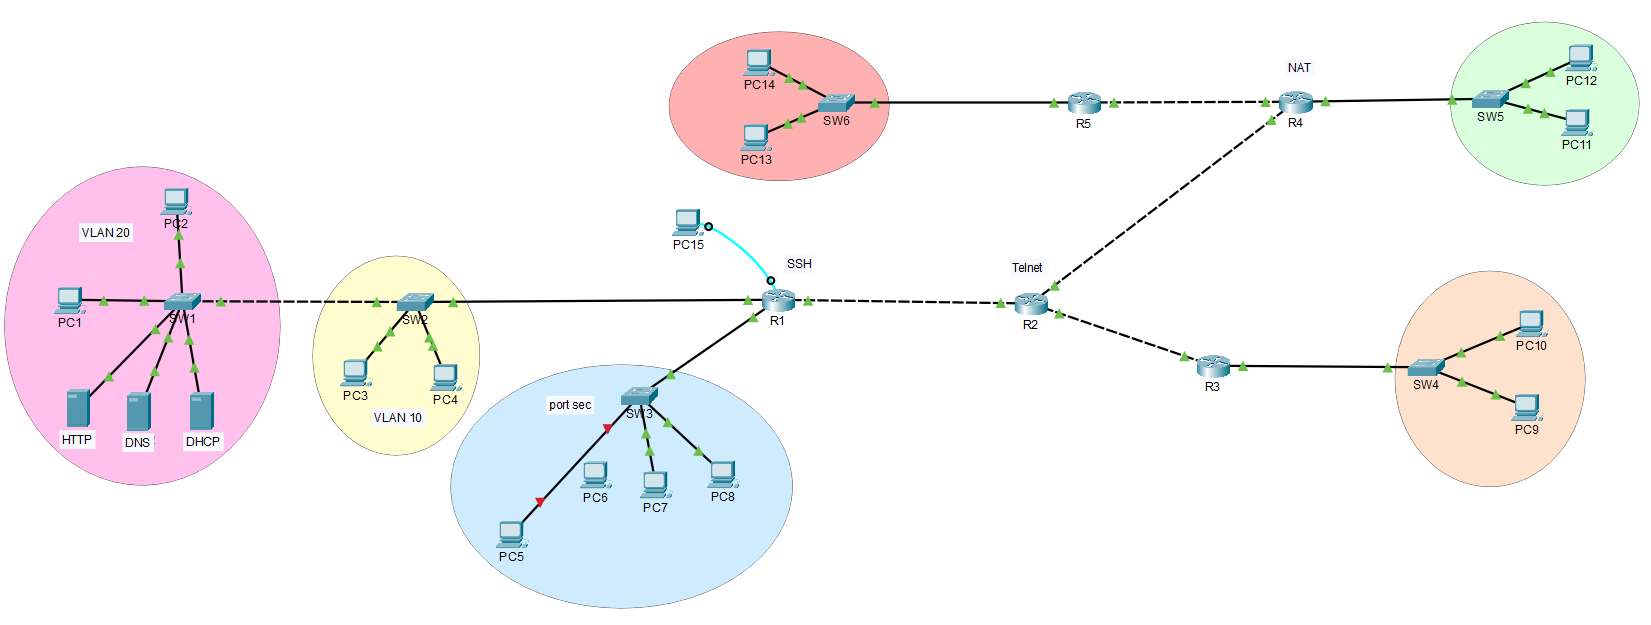
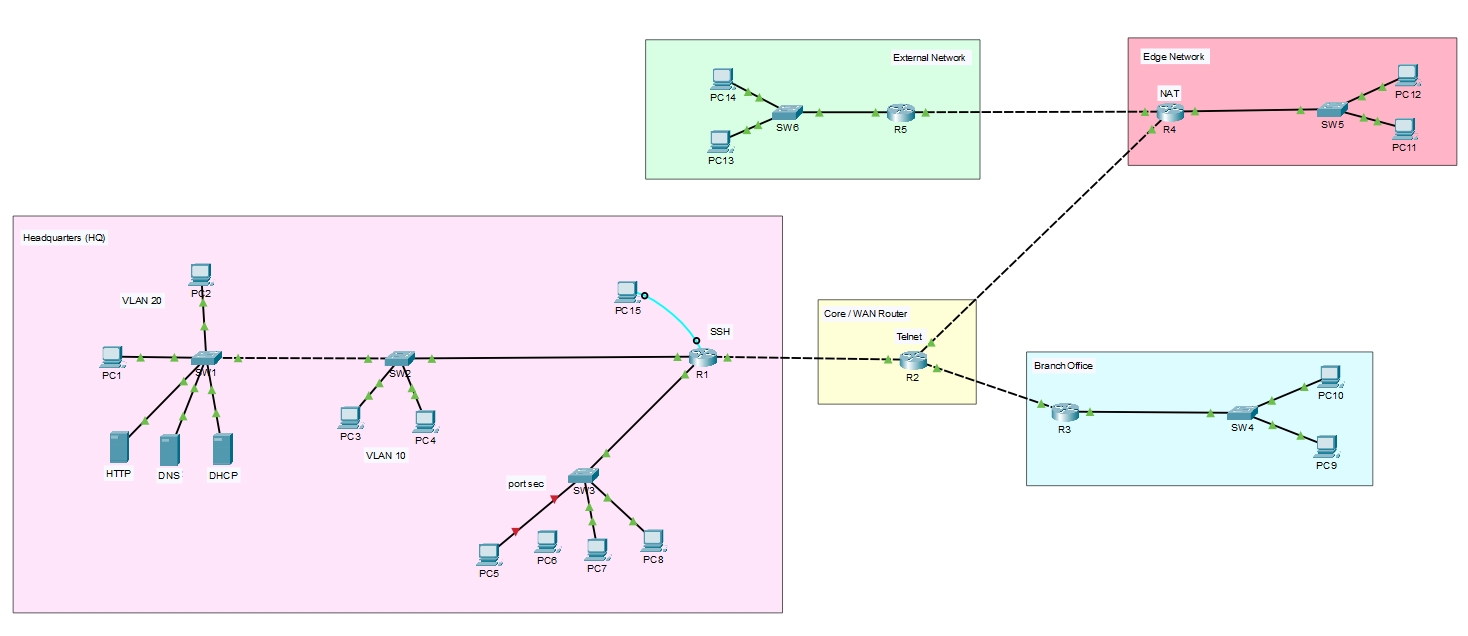
Updated enterprise network topology diagram

diff --git a/README.md b/README.md
@@ -1,10 +1,10 @@
-# Enterprise Network Infrastructure
+# Secure Enterprise Network Infrastructure
 
 ## Overview
 
-This project demonstrates the design and implementation of a secure enterprise network using Cisco Packet Tracer.
+This project demonstrates the design, implementation, and validation of a secure enterprise network using Cisco Packet Tracer.
 
-The network was designed to simulate a real enterprise environment with multiple LANs, routing protocols, network services, remote management, and security features.
+The network simulates a real-world enterprise environment by integrating routing, switching, network services, remote management, and security technologies across multiple interconnected sites.
 
 ---
 
@@ -12,65 +12,48 @@ The network was designed to simulate a real enterprise environment with multiple
 
 ![Network Topology](screenshots/topology.png)
 
---- 
+---
 
 ## Features
 
 - Multi-router enterprise network topology
-- VLAN segmentation (VLAN 10 & VLAN 20)
-- Inter-VLAN Routing
+- VLAN Segmentation
+- Router-on-a-Stick (Inter-VLAN Routing)
 - Static Routing
-- RIP Routing
+- RIPv2 Dynamic Routing
 - Default Route
 - DHCP Server
 - DNS Server
 - HTTP Server
-- Network Address Translation (NAT)
+- Static NAT
 - SSH Remote Management
-- Telnet Remote Access
-- Switch Port Security
-- End-to-End Connectivity Testing
+- Telnet Connectivity Testing
+- Port Security
+- Network Validation & Connectivity Testing
 
 ---
 
-## VLAN Configuration
+## VLANs & Inter-VLAN Routing
 
-The enterprise network was segmented using Virtual LANs (VLANs) to improve security and reduce broadcast traffic.
+The enterprise network was segmented using Virtual LANs (VLANs) to improve network organization, reduce broadcast traffic, and enhance security.
 
 | VLAN | Purpose | Connected Devices |
 |------|---------|-------------------|
 | VLAN 10 | User Network | PC3, PC4 |
 | VLAN 20 | Server Network | HTTP Server, DNS Server, DHCP Server, PC1, PC2 |
 
-A trunk link was configured between SW1 and SW2 to allow VLAN traffic between switches.
-
----
-
-## VLAN & Inter-VLAN Routing
-
-The enterprise network was segmented using VLANs to improve network organization and security.
-
-| VLAN | Purpose |
-|------|---------|
-| VLAN 10 | User Network |
-| VLAN 20 | Server Network |
-
-Inter-VLAN Routing was implemented using the Router-on-a-Stick technique.
-
 Two IEEE 802.1Q trunk links were configured:
 
 - SW1 ↔ SW2
 - SW2 ↔ R1
 
-Router R1 was configured with subinterfaces for VLAN 10 and VLAN 20 to enable communication between VLANs.
+Inter-VLAN communication was implemented using the Router-on-a-Stick technique. Router R1 was configured with dedicated subinterfaces for VLAN 10 and VLAN 20, allowing secure communication between both VLANs.
 
 ---
 
 ## DHCP Configuration
 
-![DHCP Server](screenshots/dhcp-server.png)
-
-A dedicated DHCP server was configured to automatically assign IP addresses to devices in the Server Network.
+A dedicated DHCP server was configured to automatically assign IP addresses to devices within the Server Network.
 
 ### DHCP Settings
 
@@ -83,13 +66,17 @@ A dedicated DHCP server was configured to automatically assign IP addresses to d
 | Start IP Address | 192.168.20.5 |
 | Maximum Users | 251 |
 
-The DHCP service automatically assigns network configuration to client devices, reducing manual configuration and improving network management.
+The DHCP service automatically distributes IP configuration to client devices, reducing manual configuration and simplifying network management.
+
+### DHCP Server
+
+![DHCP Server](screenshots/dhcp-server.png)
 
 ---
 
 ## DNS Configuration
 
-A dedicated DNS server was configured to provide hostname resolution for internal services within the enterprise network.
+A dedicated DNS server was configured to resolve internal hostnames within the enterprise network.
 
 ### DNS Record
 
@@ -97,7 +84,7 @@ A dedicated DNS server was configured to provide hostname resolution for interna
 |----------|-------------|------------|
 | www.cisco | A Record | 192.168.20.4 |
 
-The DNS server allows clients to access the web server using its hostname instead of the IP address.
+The DNS server enables users to access internal services using hostnames instead of IP addresses.
 
 ### DNS Server
 
@@ -109,21 +96,21 @@ The DNS server allows clients to access the web server using its hostname instea
 
 An internal web server was deployed and successfully accessed through DNS hostname resolution.
 
-### Validation
+### Verification
 
-The website was accessed using:
+The website was successfully accessed using:
 
-```
+```text
 http://www.cisco
 ```
 
-This confirms the successful integration of:
+This validates:
 
 - DNS name resolution
-- HTTP service
+- HTTP service availability
 - End-to-end network connectivity
 
-### HTTP Test
+### HTTP Verification
 
 ![HTTP Test](screenshots/http-test.png)
 
@@ -131,26 +118,26 @@ This confirms the successful integration of:
 
 ## SSH Remote Management
 
-Secure Shell (SSH) was configured on **Router R1** to provide secure remote administration.
+Secure Shell (SSH) was configured on Router R1 to provide secure remote administration.
 
 ### Configuration
 
 - Local user authentication
-- RSA (2048-bit) encryption keys
+- 2048-bit RSA key pair
 - SSH enabled on VTY lines
-- Domain name configured: `NETWORK.LOCAL`
+- Domain name configured (NETWORK.LOCAL)
 
 ### Verification
 
-SSH connectivity was successfully verified by establishing a remote session from **R2** to **R1** using:
+SSH connectivity was successfully verified by establishing a secure remote session from Router R2 to Router R1.
 
 ```text
 ssh -l saja 10.10.1.1
 ```
 
-Successful authentication confirmed secure remote management between network devices.
+Successful authentication confirmed secure remote management between enterprise network devices.
 
-### SSH Test
+### SSH Verification
 
 ![SSH Login](screenshots/ssh-login.png)
 
@@ -158,7 +145,7 @@ Successful authentication confirmed secure remote management between network dev
 
 ## Network Address Translation (NAT)
 
-Static Network Address Translation (Static NAT) was implemented to provide address translation between internal and external networks.
+Static Network Address Translation (Static NAT) was implemented to provide communication between internal and external networks.
 
 ### NAT Translation
 
@@ -168,7 +155,7 @@ Static Network Address Translation (Static NAT) was implemented to provide addre
 
 ### Verification
 
-The translation table confirmed successful NAT operation during network communication.
+The NAT translation table confirmed successful address translation during communication.
 
 ### NAT Verification
 
@@ -178,22 +165,22 @@ The translation table confirmed successful NAT operation during network communic
 
 ## Routing Configuration
 
-The enterprise network uses a hybrid routing design combining **Static Routing**, **RIPv2**, and a **Default Route** to provide connectivity between headquarters, branch offices, and external networks.
+The enterprise network uses a hybrid routing design combining Static Routing, RIPv2, and a Default Route to provide connectivity between headquarters, branch offices, and external networks.
 
 ### Routing Technologies
 
 - Static Routing
-- RIP Version 2 (RIPv2)
+- RIPv2 Dynamic Routing
 - Default Route
-- Router-on-a-Stick (Inter-VLAN Routing)
+- Router-on-a-Stick
 
 ### Static Routing
 
-Static routes were configured between enterprise routers to provide connectivity to selected remote networks.
+Static routes were configured on enterprise routers to provide deterministic paths toward selected remote networks.
 
 ### Dynamic Routing (RIPv2)
 
-RIPv2 was implemented on **R2**, **R3**, and **R4** to dynamically exchange routing information between enterprise network segments.
+RIPv2 was implemented on R2, R3, and R4 to dynamically exchange routing information across WAN links.
 
 Features:
 
@@ -203,7 +190,7 @@ Features:
 
 ### Default Route
 
-A default route was configured on **R4** to forward unknown traffic toward the external network.
+A default route was configured on R4 to forward unknown traffic toward the external network.
 
 ### Verification Evidence
 
@@ -211,11 +198,11 @@ A default route was configured on **R4** to forward unknown traffic toward the e
 
 ![R1 Routing Table](screenshots/r1-routing-table.png)
 
-**R2 - Static + RIPv2**
+**R2 - Static Routing + RIPv2**
 
 ![R2 Routing Table](screenshots/r2-routing-table.png)
 
-**R3 - Static +  RIPv2**
+**R3 - Static Routing + RIPv2**
 
 ![R3 Routing Table](screenshots/r3-routing-table.png)
 
@@ -227,11 +214,17 @@ A default route was configured on **R4** to forward unknown traffic toward the e
 
 ![R5 Routing Table](screenshots/r5-routing-table.png)
 
-**RIP Version 2**
+### RIPv2 Verification
+
+**R2**
 
 ![R2 RIP](screenshots/r2-rip.png)
 
+**R3**
+
 ![R3 RIP](screenshots/r3-rip.png)
+
+**R4**
 
 ![R4 RIP](screenshots/r4-rip.png)
 
@@ -246,17 +239,17 @@ Port Security was configured on access switch ports to prevent unauthorized devi
 - Maximum Secure MAC Address: 1
 - Sticky MAC Address Learning
 - Violation Mode: Shutdown
-- Unauthorized devices automatically blocked
+- Automatic interface shutdown upon MAC address violation
 
 ### Security Test
 
 An unauthorized device (**PC5**) was connected to a protected switch port.
 
-The switch detected the MAC address violation and automatically placed the interface into a **shutdown** state, successfully preventing unauthorized network access.
+The switch detected the MAC address violation and automatically placed the interface into a shutdown state, successfully preventing unauthorized network access.
 
 ### Verification Evidence
 
-**Unauthorized Device Attempt**
+**Unauthorized Device**
 
 ![Unauthorized Device](screenshots/port-security-topology.png)
 
@@ -268,7 +261,7 @@ The switch detected the MAC address violation and automatically placed the inter
 
 ## Network Validation
 
-The enterprise network was successfully tested after implementation to verify connectivity, routing, security, and network services.
+The enterprise network was successfully validated after implementation to verify routing, connectivity, security, and network services.
 
 ### Validation Results
 
@@ -288,9 +281,68 @@ The enterprise network was successfully tested after implementation to verify co
 ### Testing Evidence
 
 - DHCP clients successfully received IP addresses.
-- DNS resolved `www.cisco` successfully.
-- HTTP server was accessible through the browser.
-- SSH remote login succeeded from R2 to R1.
-- Static and dynamic routing tables were verified.
-- NAT translation entries were successfully created.
-- Port Security blocked unauthorized devices automatically.
+- DNS successfully resolved **www.cisco**.
+- HTTP service was accessible using the configured hostname.
+- SSH remote login was successfully established from R2 to R1.
+- Static routes, RIPv2 learned routes, and the default route were successfully verified.
+- Static NAT translation entries were successfully created.
+- Port Security automatically blocked unauthorized devices.
+
+---
+
+## Technologies Used
+
+- Cisco Packet Tracer
+- Cisco IOS CLI
+- Routing & Switching
+- VLAN Segmentation
+- IEEE 802.1Q Trunking
+- Router-on-a-Stick
+- Static Routing
+- RIPv2
+- Default Route
+- DHCP
+- DNS
+- HTTP
+- Static NAT
+- SSH
+- Telnet
+- Port Security
+
+---
+
+## IP Addressing Plan
+
+| Network | Subnet | Purpose | Gateway |
+|---------|---------|---------|---------|
+| VLAN 10 | 192.168.10.0/24 | User Network | 192.168.10.1 |
+| VLAN 20 | 192.168.20.0/24 | Server Network | 192.168.20.1 |
+| LAN | 192.168.2.0/24 | Port Security LAN | 192.168.2.1 |
+| R1 ↔ R2 | 10.10.1.0/24 | WAN Link | - |
+| R2 ↔ R3 | 10.10.2.0/24 | WAN Link | - |
+| R2 ↔ R4 | 10.10.3.0/24 | WAN Link | - |
+| R4 ↔ R5 | 192.168.3.0/24 | NAT Link | - |
+| External LAN | 192.168.4.0/24 | External Network | 192.168.4.1 |
+
+---
+
+## Device Inventory
+
+| Device | Role |
+|---------|------|
+| R1 | Headquarters Router (Inter-VLAN Routing & SSH) |
+| R2 | Core Router (Static Routing & RIPv2) |
+| R3 | Branch Router |
+| R4 | Edge Router (Static NAT & Default Route) |
+| R5 | External Router |
+| SW1 | Access Switch (Servers & VLAN 20) |
+| SW2 | Distribution Switch (802.1Q Trunk) |
+| SW3 | Access Switch (Port Security) |
+| HTTP Server | Internal Web Server |
+| DNS Server | Internal DNS Server |
+| DHCP Server | DHCP Service |
+| PCs | Enterprise Clients |
+
+---
+
+